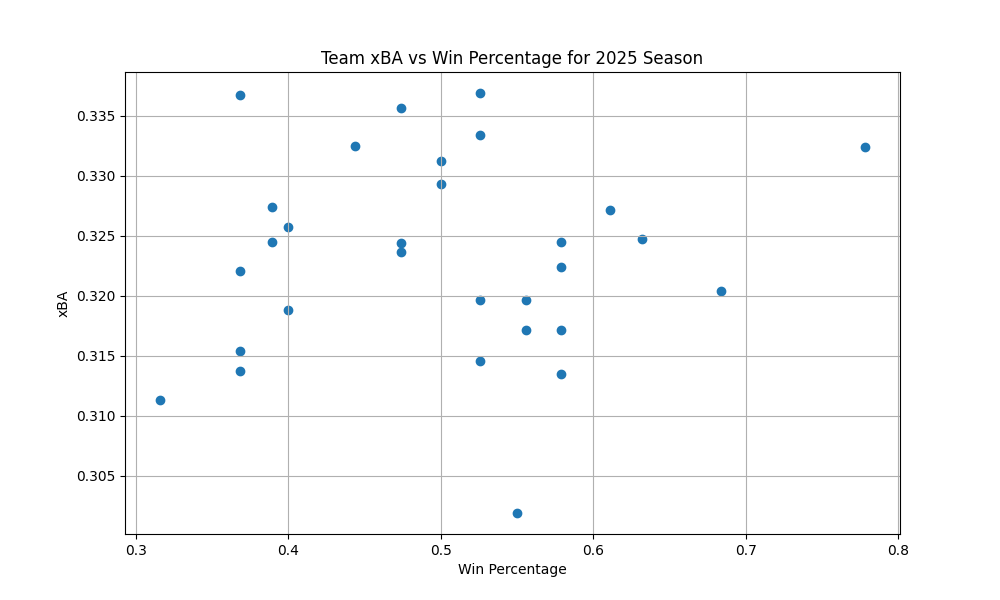
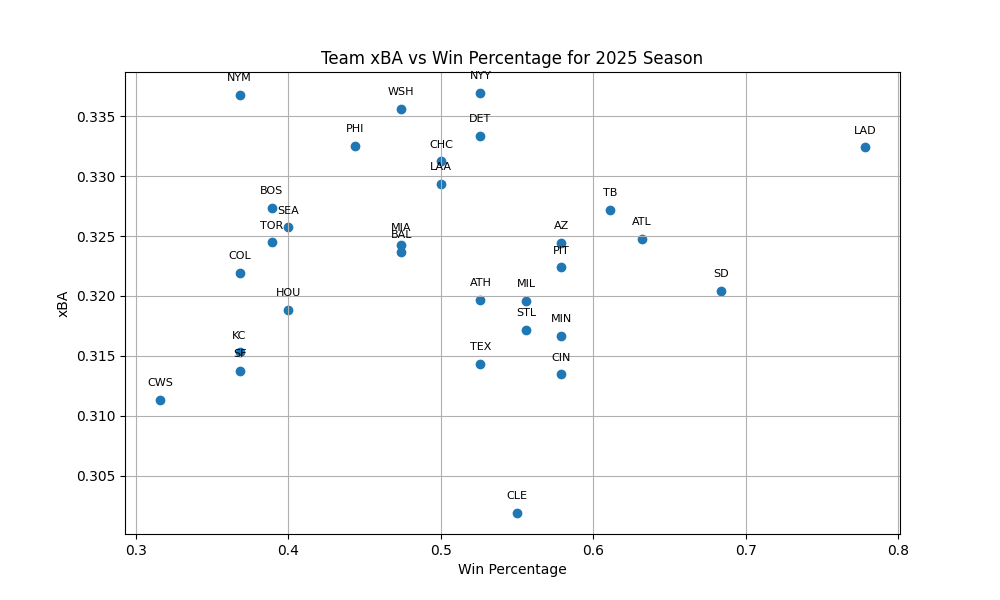
Added team name labels

diff --git a/scripts/team_xba.py b/scripts/team_xba.py
@@ -20,6 +20,9 @@ plt.xlabel('Actual Batting Average')
 plt.ylabel('xBA')
 plt.title('Team xBA vs Actual Batting Average for 2025 Season')
 plt.grid()
+for i, team in enumerate(team_df.index):
+    plt.annotate(team, (team_df['avg'].iloc[i], team_df['xBA'].iloc[i]),
+                 textcoords="offset points", xytext=(0, 10), ha='center', fontsize=8)
 plt.savefig("figures/team_xba_vs_avg.png")
 
 team_df['Win%'] = team_stats.set_index('Team').loc[team_df.index]['Win%']
@@ -29,4 +32,7 @@ plt.xlabel('Win Percentage')
 plt.ylabel('xBA')
 plt.title('Team xBA vs Win Percentage for 2025 Season')
 plt.grid()
+for i, team in enumerate(team_df.index):
+    plt.annotate(team, (team_df['Win%'].iloc[i], team_df['xBA'].iloc[i]),
+                 textcoords="offset points", xytext=(0, 10), ha='center', fontsize=8)
 plt.savefig("figures/team_xba_vs_win%.png")